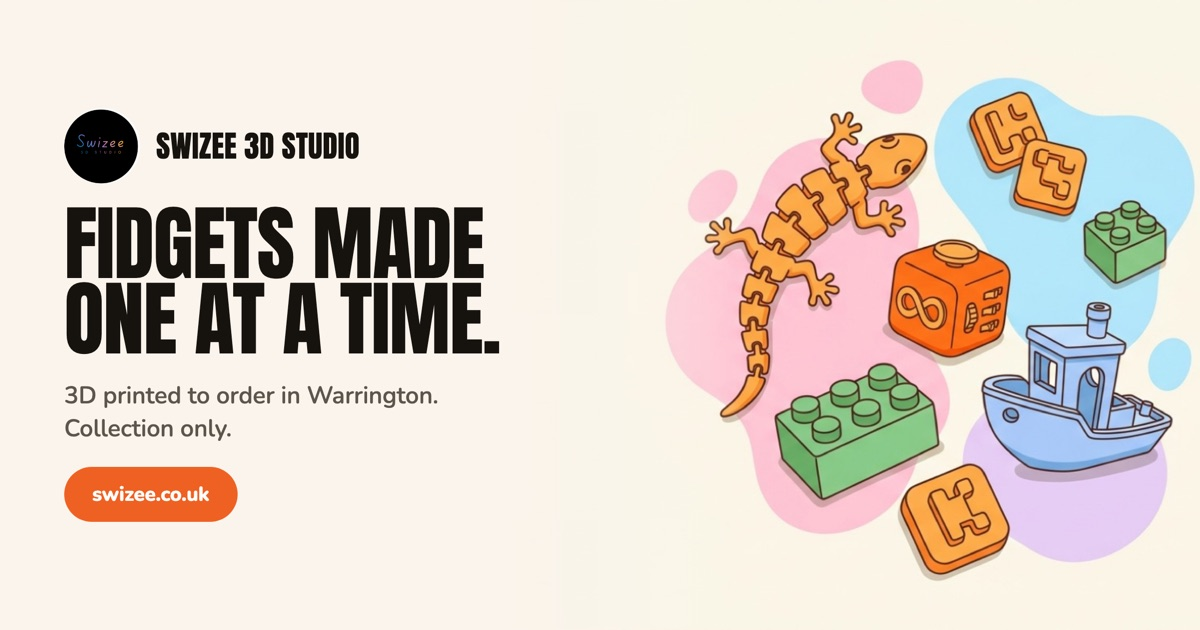
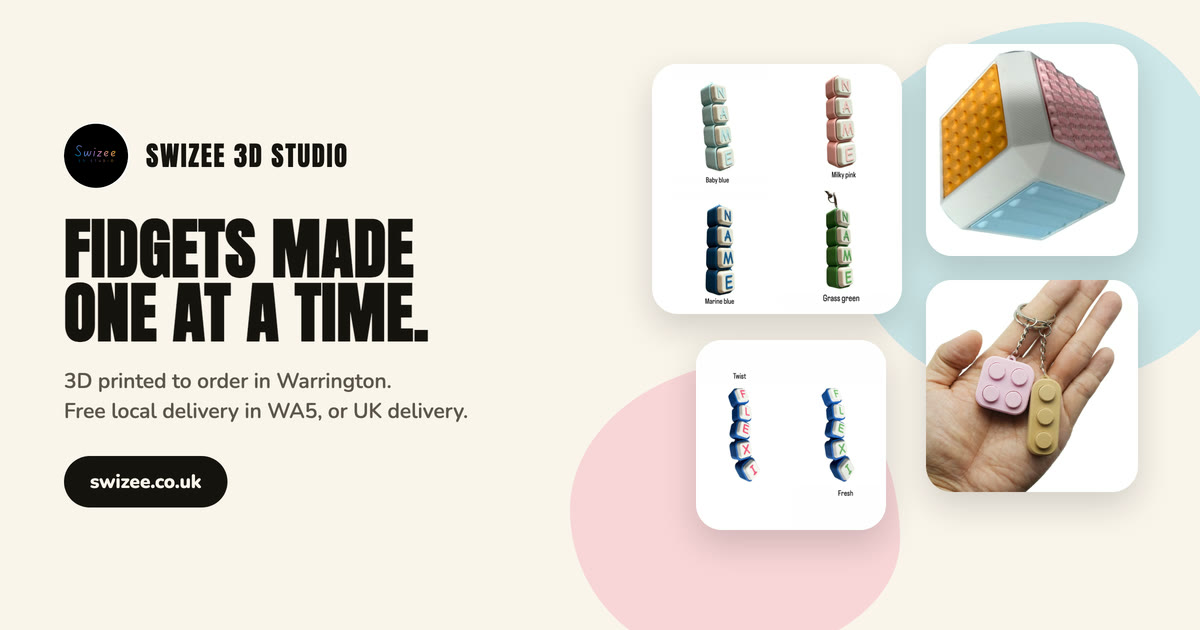
Share card shows what we actually sell, and says so correctly
The card WhatsApp and Facebook show for swizee.co.uk still read
"Collection only" and pictured a lizard, a boat and some bricks —
none of them things the shop sells. Rebecca spotted it when she
shared the link. Rebuilt from real product photographs, with the
delivery line that has been true since 7 September.

Also: a card only says "from £7" when the variants really do differ
in price. Nine shaped bubble poppers all cost £7, so "from" overstated
it. README's delivery table had drifted too.

diff --git a/README.md b/README.md
@@ -119,21 +119,26 @@ With no mailbox they do nothing, so recreating them was not worth the effort.
 spam. That failure is silent and shows up weeks later, so it is worth knowing
 about in advance.
 
-## Delivery and collection
+## Delivery
 
 UK only. Both options are offered at Stripe Checkout as shipping rates:
 
 | Option | Price | Quoted time |
 |---|---|---|
-| Collect from Great Sankey, Warrington | free | up to 7 working days |
-| UK delivery (Royal Mail 2nd Class) | £3.50, free over £20 | 7 days to make, then 2–3 in the post |
+| Free local delivery (WA5 postcodes) | free | 7 days to make, then up to 2 to drop round |
+| UK delivery (Royal Mail 2nd Class) | £3.50, free over £40 | 7 days to make, then 2–3 in the post |
+
+Collection was removed on 7 Sept 2026 at Rebecca's request: she does not want
+customers calling at the house while this is a child-led business. Stripe cannot
+restrict a shipping option by postcode, so the local option is visible to
+everyone — the label, the checkout note and `terms.md` all say WA5 only.
 
 Every number lives in `src/lib/shipping.mjs`. The site's copy and the checkout
 function both read from it, so changing the price is a one-line edit and the two
 cannot disagree. The free-delivery threshold is worked out server-side from
 Stripe's own prices, never from anything the browser sent.
 
-Stripe will not show shipping options without an address, so collection
+Stripe will not show shipping options without an address, so local-delivery
 customers are asked for one too. `custom_text.shipping_address` explains why.
 
 > This replaced the original brief's "collection only, no delivery". The Claude
